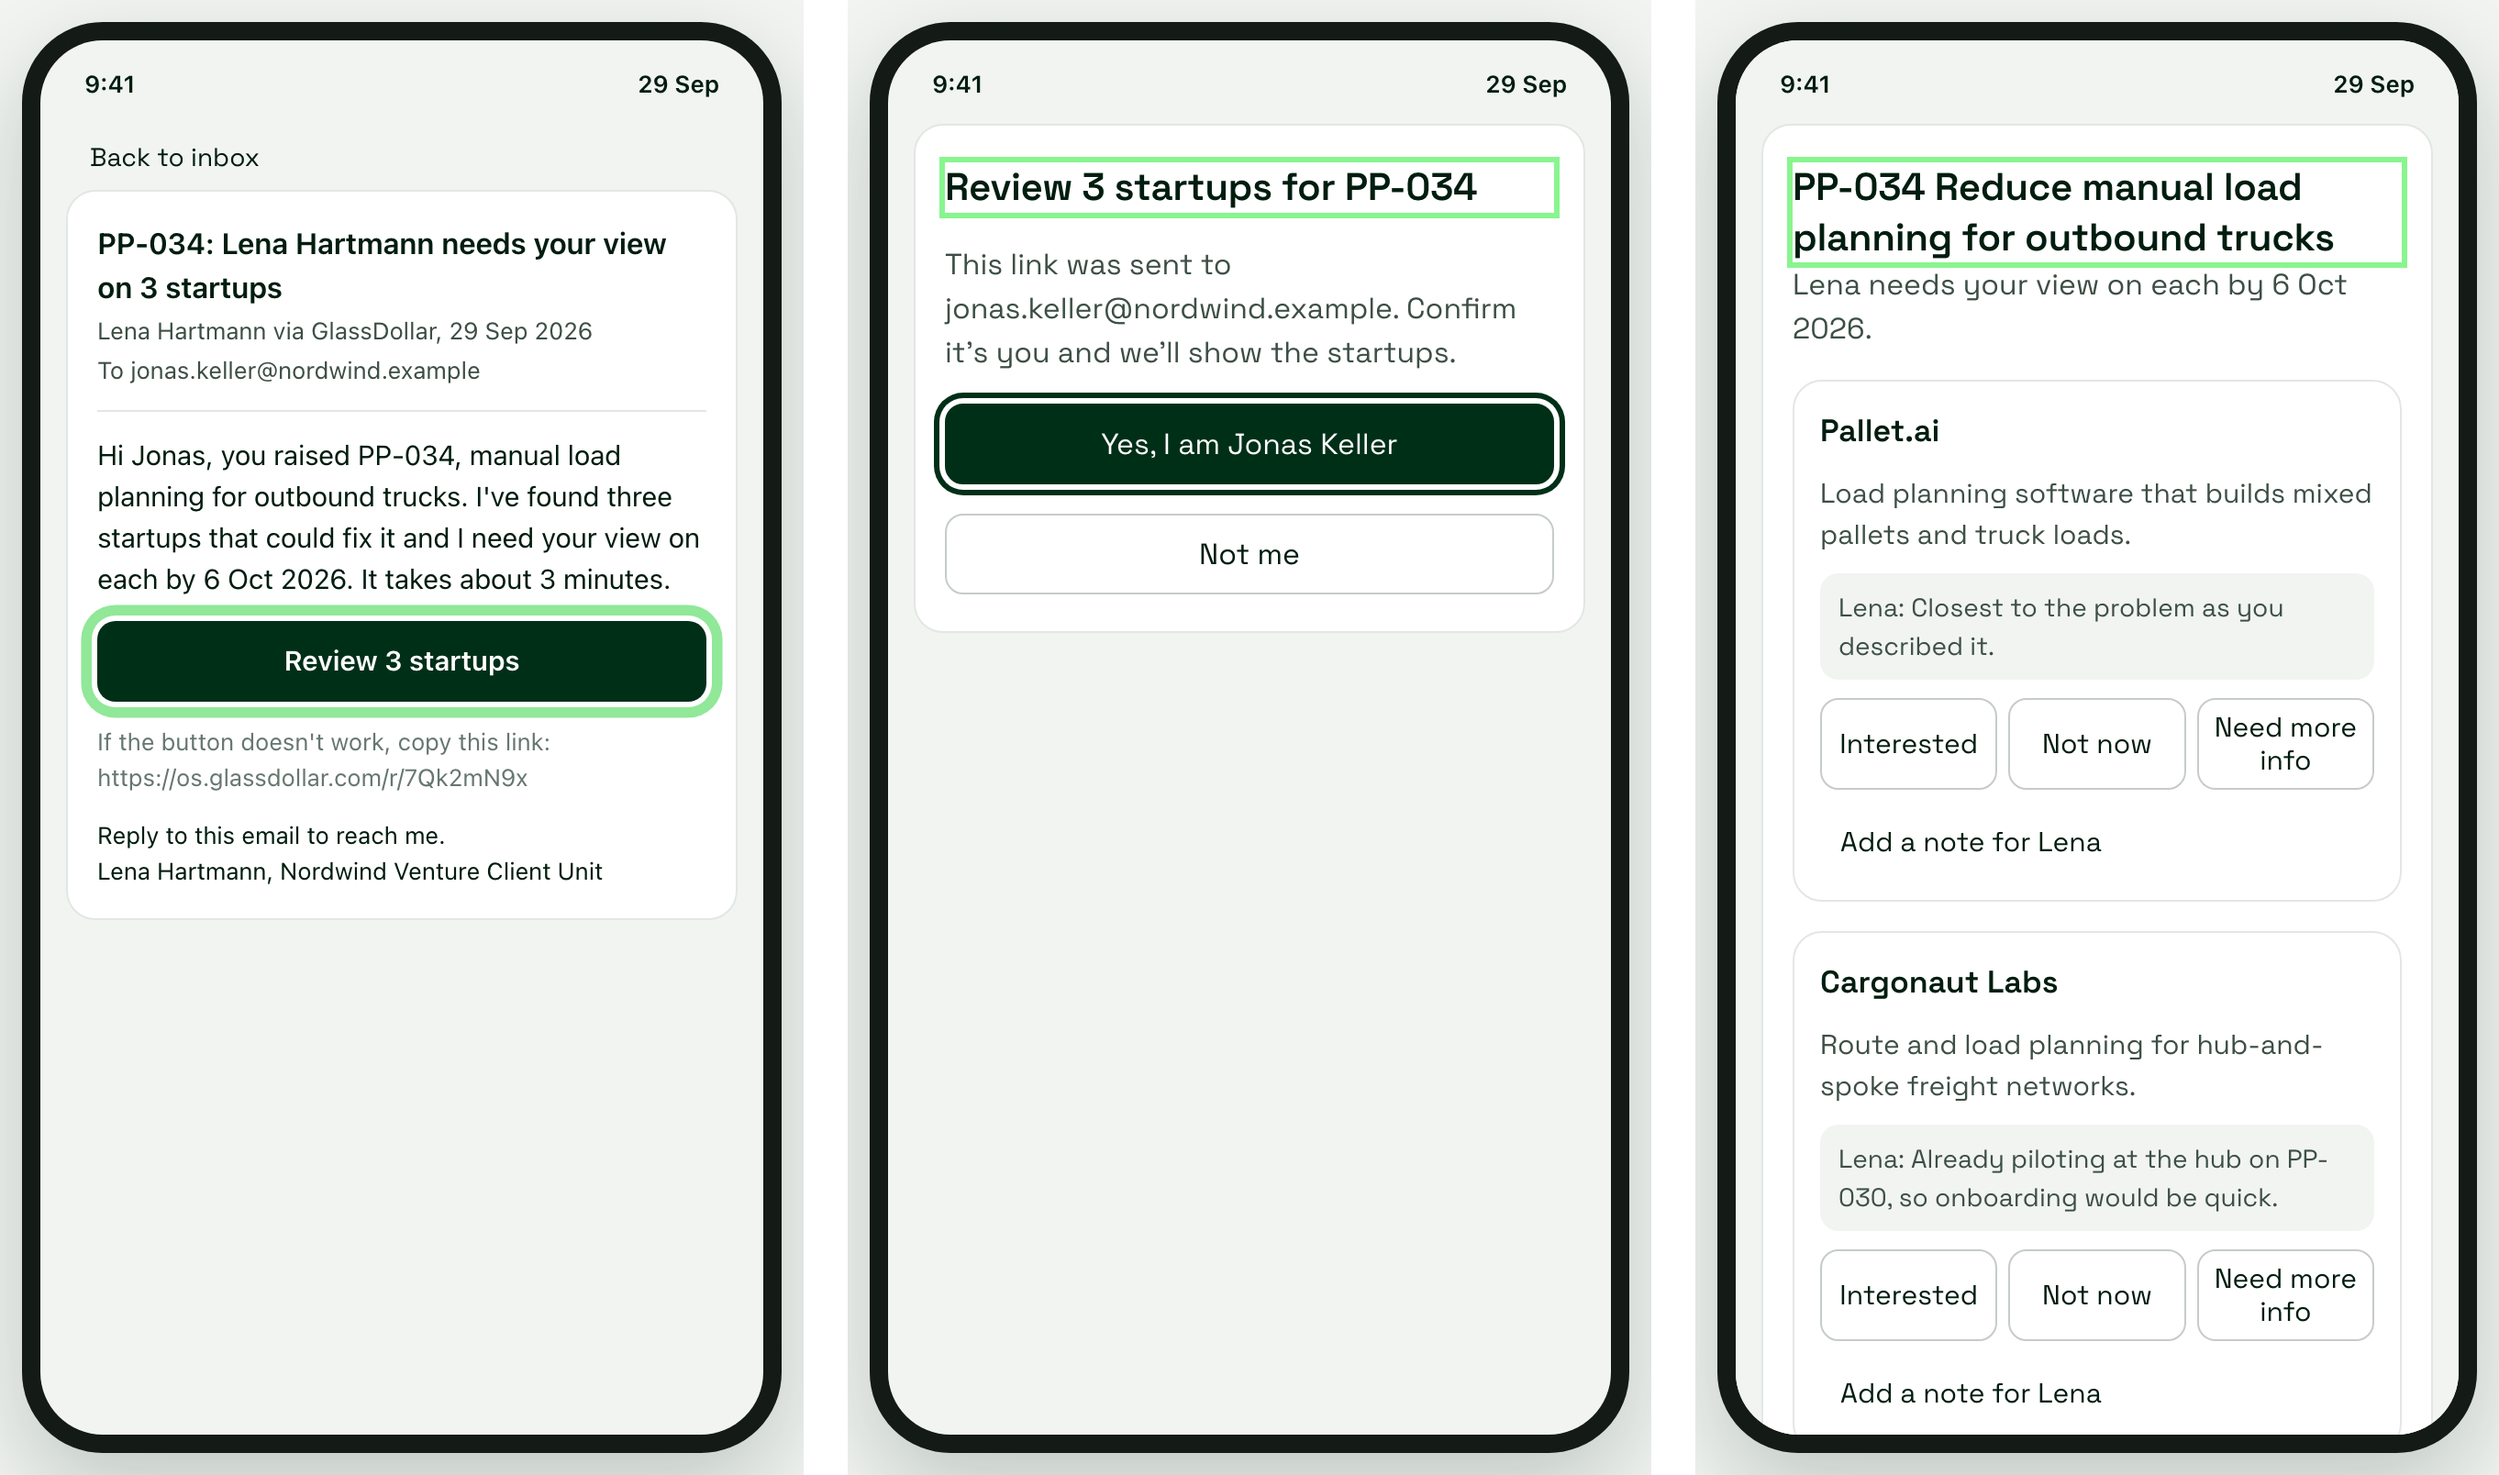
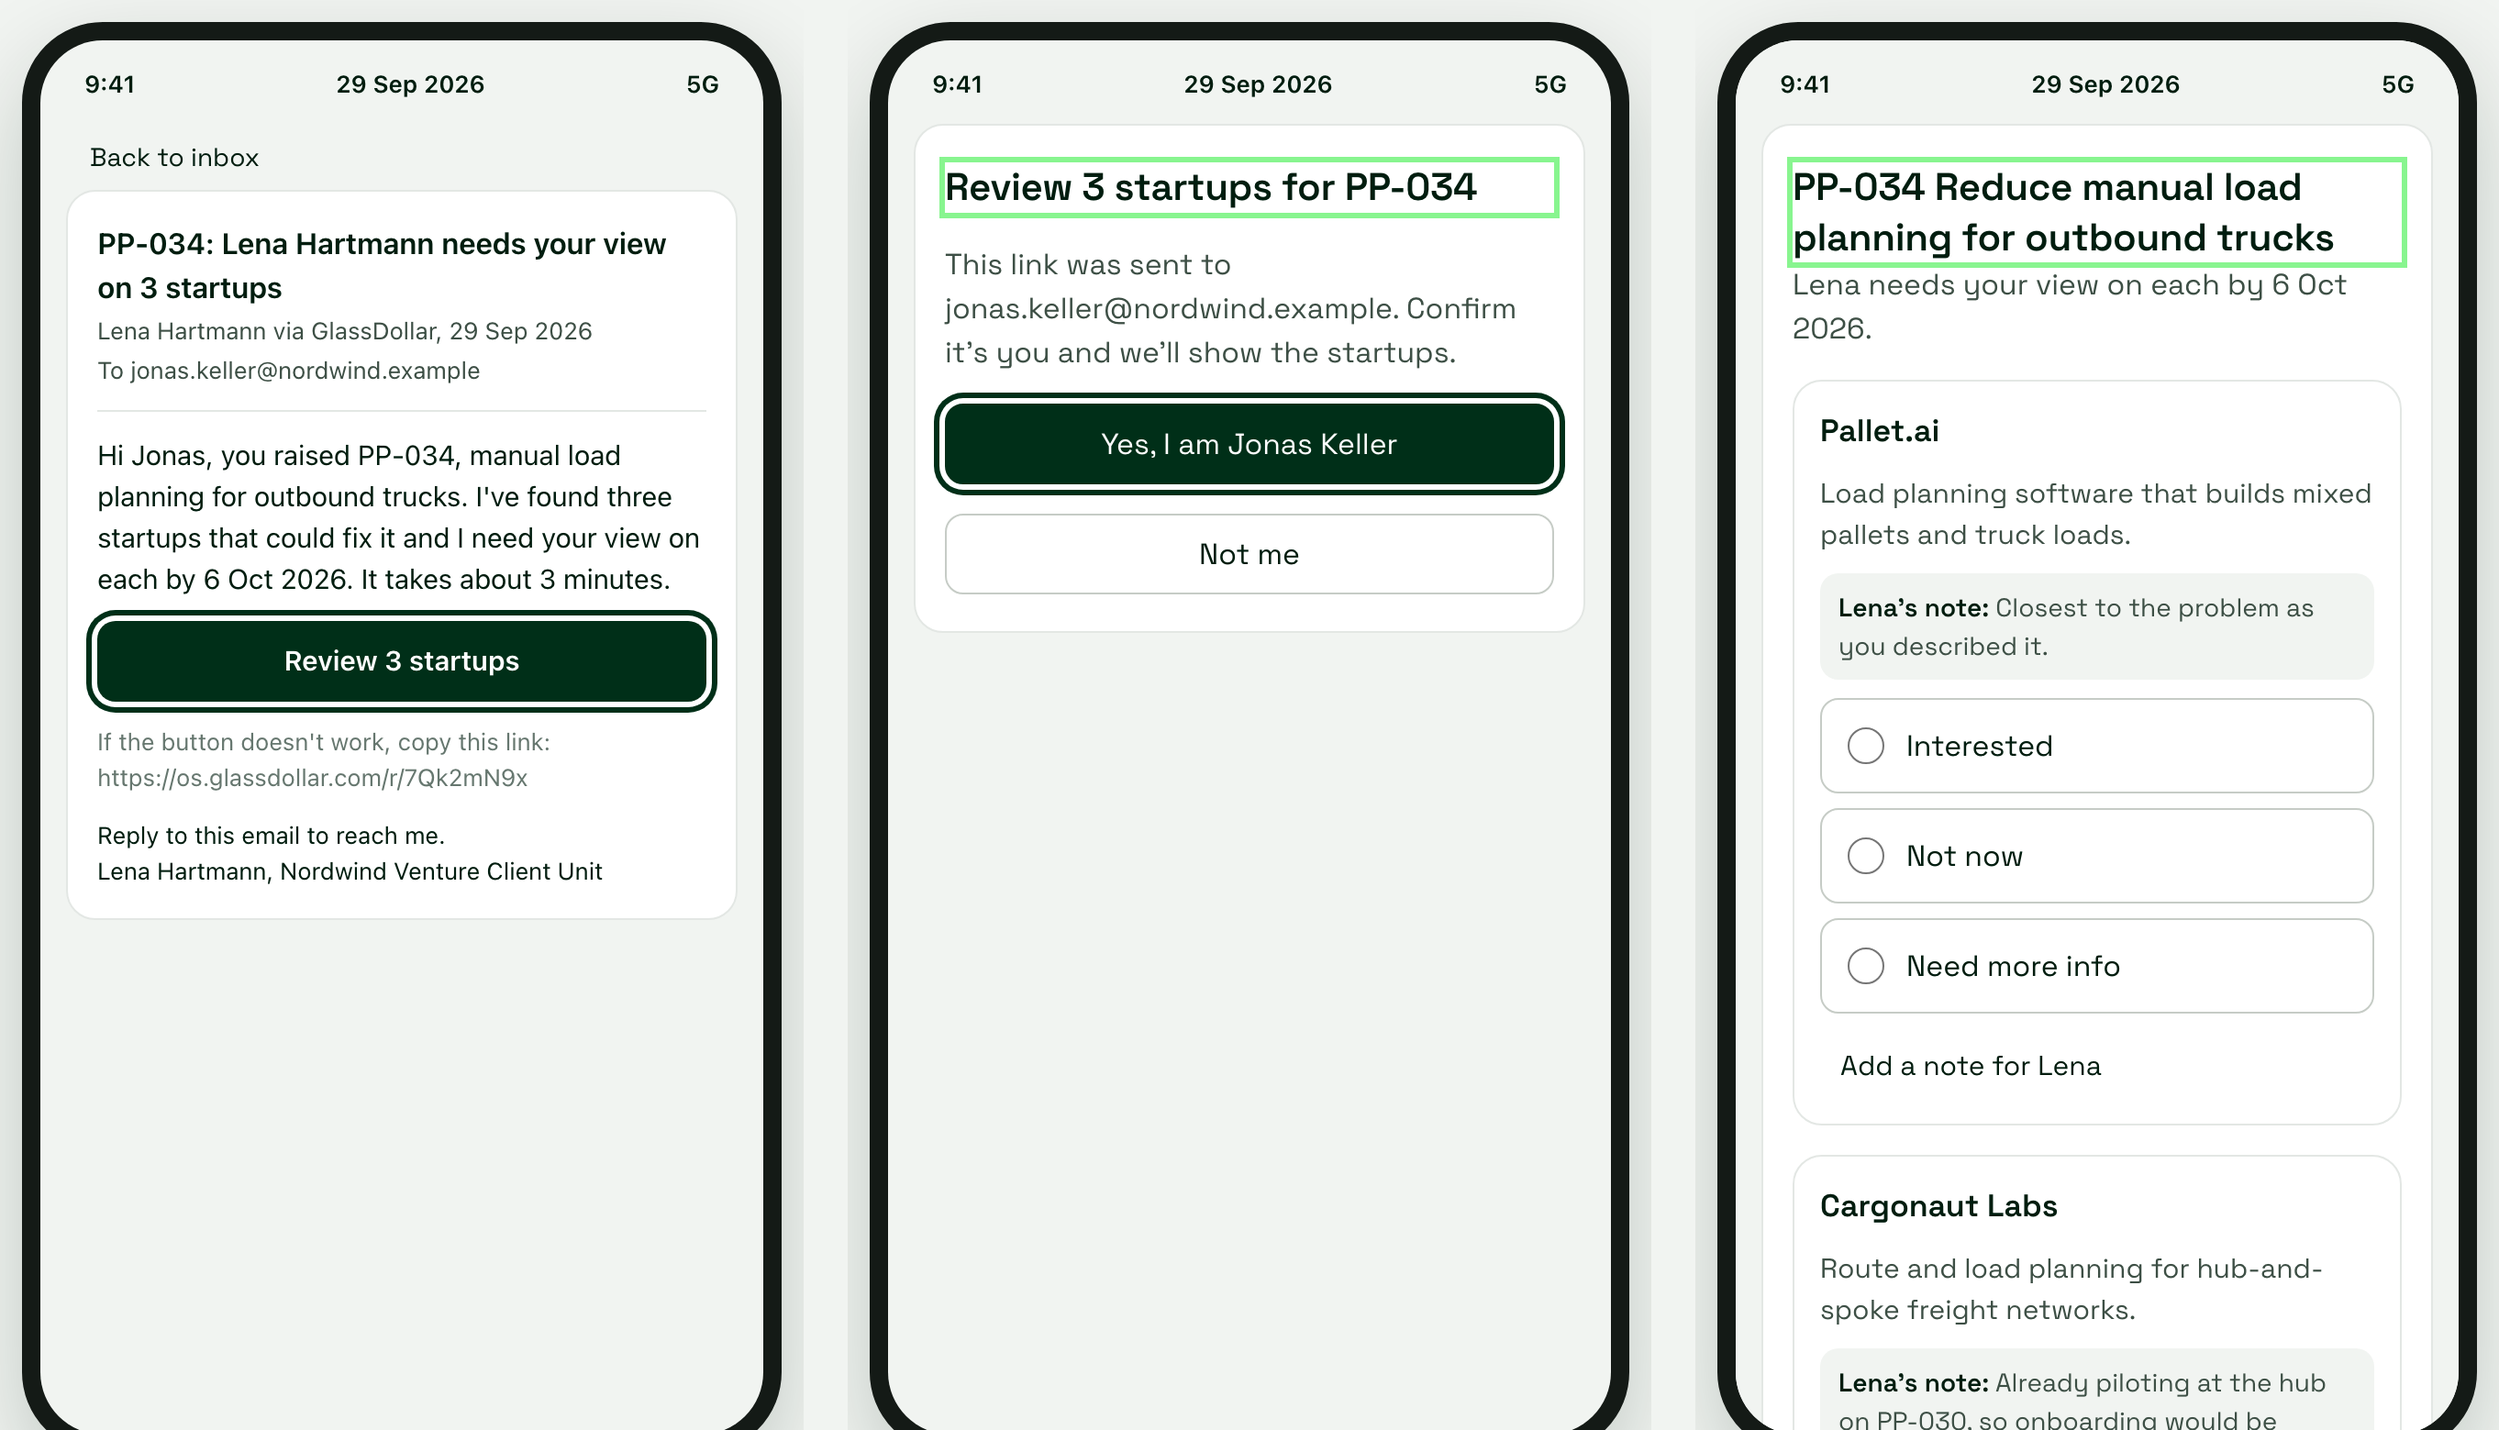
Design pass from the Lovable build: stacked choices on the phone, startup cards in a row, clock bar, Actions column (#21)

diff --git a/index.html b/index.html
@@ -252,6 +252,16 @@ label.field{display:grid;gap:6px}
 .peek .preview{margin-top:10px}
 .dlg .actions{justify-content:flex-end}
 
+/* Design pass, 12 Oct 2026: stacked choices on the phone, startup cards in a row, the clock in its own bar */
+.page .opts{grid-template-columns:1fr;gap:8px}
+.page .opts label{justify-content:flex-start;gap:12px;padding:10px 14px;text-align:left;min-height:52px;font-size:16px}
+.page .opts input{position:static;inset:auto;opacity:1;width:20px;height:20px;margin:0;flex:none;accent-color:var(--accent)}
+.stack.startups{grid-template-columns:repeat(3,minmax(0,1fr))}
+@container lena (max-width:700px){.stack.startups{grid-template-columns:1fr}}
+.lena-label{font-weight:600;color:var(--ink)}
+.controls{width:100%;margin-left:0;background:#fff;border:1px solid var(--note-line);border-radius:var(--radius-s);padding:8px 12px}
+#resetGroup{margin-left:auto}
+.list th:last-child{text-align:right}
 @media (prefers-reduced-motion:reduce){*{transition:none !important}}
 </style>
 </head>
@@ -273,9 +283,9 @@ label.field{display:grid;gap:6px}
         <button class="btn" id="roleJonas" aria-pressed="false">Jonas Keller</button>
       </div>
     </div>
+    <div class="group" id="todayGroup"><span>Today is <span class="day" id="today">29 Sep 2026, day 0</span></span></div>
     <div class="group" id="clockGroup" role="group" aria-label="Clock">
-      <span>Today <span class="day" id="today">29 Sep 2026, day 0</span></span>
-      <span class="days"><span>Jump ahead to</span>
+      <span class="days" role="group" aria-label="Jump ahead to a day">
       <button class="btn small" data-day="3">Day 3</button>
       <button class="btn small" data-day="7">Day 7</button>
       <button class="btn small" data-day="8">Day 8</button>
@@ -628,13 +638,13 @@ function renderShortlist(){
       const it = r.answer.items.find(i => i.id === s.id);
       ans = `<div class="answer-line"><span class="pill ${it.choice === 'interested' ? 'done' : ''}">${label(it.choice)}</span>${it.comment ? `<span>${esc(it.comment)}</span>` : ''}</div>`;
     }
-    return `<div class="card startup"><div class="s-head"><span class="avatar" style="background:${s.hue}" aria-hidden="true">${s.ini}</span><h3>${s.name}</h3></div><p>${s.desc}</p><p class="note">Lena: ${s.lena}</p>${ans}</div>`;
+    return `<div class="card startup"><div class="s-head"><span class="avatar" style="background:${s.hue}" aria-hidden="true">${s.ini}</span><h3>${s.name}</h3></div><p>${s.desc}</p><p class="note"><span class="lena-label">Lena's note:</span> ${s.lena}</p>${ans}</div>`;
   }).join('');
   const noneFit = r && r.answer && r.answer.noneFit ? `<div class="card"><b>None of these fit.</b> ${esc(r.answer.noneFitText)}</div>` : '';
   const behalf = r && r.answer && r.answer.note ? `<p class="muted small">${esc(r.answer.note)}</p>` : '';
   const events = r ? `<details class="log"><summary>Events for this request (${r.events.length})</summary><table><thead><tr><th>Date</th><th>Event</th></tr></thead><tbody>${r.events.map(e => `<tr><td class="num">${fmt(e.day)}</td><td>${esc(e.text)}</td></tr>`).join('')}</tbody></table></details>` : '';
   return `<div class="head"><div><h1>PP-034 Reduce manual load planning for outbound trucks</h1><p class="meta small">Raised by Jonas Keller, logistics process lead at the Hamburg hub. Three startups on the shortlist.</p></div><div class="actions">${status}${action}</div></div>
-    <div class="stack">${noneFit}${cards}</div>${behalf}${events}`;
+    <div class="stack">${noneFit}<div class="stack startups">${cards}</div></div>${behalf}${events}`;
 }
 
 function renderWaiting(){
@@ -658,8 +668,8 @@ function renderWaiting(){
     return `<button type="button" class="btn small menu-btn" popovertarget="menu-${k}-${x.id}">Actions</button><div class="menu-items" id="menu-${k}-${x.id}" popover>${items.join('')}</div>`;
   };
   const reqCell = x => x.fixed ? `<b>${x.id}</b>` : `<button type="button" class="linkish" data-act="open">${x.id}</button>`;
-  const table = rows.length ? `<div class="tablecard"><table class="list"><thead><tr><th>Request</th><th>Owner</th><th>Age</th><th>Due</th><th>State</th><th>Reminders</th><th>Last owner action</th><th><span class="sr-only">Actions</span></th></tr></thead><tbody>
-    ${rows.map(x => `<tr><td>${reqCell(x)}<br><span class="small muted">${x.title}</span></td><td>${esc(x.owner)}</td><td class="num">${x.age} days</td><td class="num">${x.due}</td><td>${pill(x.state)}</td><td class="num">${x.reminders}</td><td>${esc(x.last)}</td><td>${actions(x, 't')}</td></tr>`).join('')}</tbody></table></div>
+  const table = rows.length ? `<div class="tablecard"><table class="list"><thead><tr><th>Request</th><th>Owner</th><th>Age</th><th>Due</th><th>State</th><th>Reminders</th><th>Last owner action</th><th>Actions</th></tr></thead><tbody>
+    ${rows.map(x => `<tr><td>${reqCell(x)}<br><span class="small muted">${x.title}</span></td><td>${esc(x.owner)}</td><td class="num">${x.age} days</td><td class="num">${x.due}</td><td>${pill(x.state)}</td><td class="num">${x.reminders}</td><td>${esc(x.last)}</td><td>${actions(x, 't') || '-'}</td></tr>`).join('')}</tbody></table></div>
     <div class="rows">${rows.map(x => `<div class="card row-card"><div class="row-head"><b>${reqCell(x)} ${x.title}</b>${pill(x.state)}</div>
       <div class="kv"><span>Owner</span><b>${esc(x.owner)}</b><span>Age</span><b>${x.age} days</b><span>Due</span><b>${x.due}</b><span>Reminders</span><b>${x.reminders}</b><span>Last action</span><b>${esc(x.last)}</b></div><div class="actions">${actions(x, 'c')}</div></div>`).join('')}</div>`
     : `<div class="card empty">${view === 'open' ? 'Nothing is waiting on anyone.' : view === 'answered' ? 'No answers yet.' : 'Nothing has been cancelled.'}</div>`;
@@ -706,19 +716,19 @@ function renderJonas(){
   } else if (S.screen === 'done'){
     body = renderDone(false);
   }
-  return `<div class="screen"><div class="statusbar" aria-hidden="true"><span>9:41</span><span>${short(S.day)}</span></div>${body}</div>`;
+  return `<div class="screen"><div class="statusbar" aria-hidden="true"><span>9:41</span><span>${fmt(S.day)}</span><span>5G</span></div>${body}</div>`;
 }
 
 function renderForm(){
   const r = S.req;
-  const cards = STARTUPS.map(s => `<fieldset class="choice" data-startup="${s.id}" id="f_${s.id}"><legend>${s.name}</legend><p class="desc">${s.desc}</p><p class="lena">Lena: ${s.lena}</p>
+  const cards = STARTUPS.map(s => `<fieldset class="choice" data-startup="${s.id}" id="f_${s.id}"><legend>${s.name}</legend><p class="desc">${s.desc}</p><p class="lena"><span class="lena-label">Lena's note:</span> ${s.lena}</p>
     <div class="opts">${CHOICES.map(([v, t]) => `<label><input type="radio" name="c_${s.id}" value="${v}"><span>${t}</span></label>`).join('')}</div>
     <p class="err" id="e_${s.id}" hidden>Pick one before you send.</p>
     <button class="btn quiet small" type="button" data-note="${s.id}">Add a note for Lena</button>
     <label class="field small" id="l_${s.id}" hidden>Note for Lena<textarea id="n_${s.id}" name="n_${s.id}" autocomplete="off" maxlength="1000" placeholder="Anything Lena should know…"></textarea></label></fieldset>`).join('');
   return `<form class="page" id="answerForm" novalidate>
     <div><h1>PP-034 Reduce manual load planning for outbound trucks</h1><p class="lead">Lena needs your view on each by ${fmt(r.sentDay + DUE_DAY)}.</p></div>
-    ${r.note ? `<p class="lena-note">Lena: ${esc(r.note)}</p>` : ''}
+    ${r.note ? `<p class="lena-note"><span class="lena-label">Lena's note:</span> ${esc(r.note)}</p>` : ''}
     ${cards}
     <label class="check"><input type="checkbox" id="noneFit" name="noneFit"><span>None of these fit</span></label>
     <label class="field" id="noneFitLabel" hidden>Tell Lena why<textarea id="noneFitText" name="noneFitText" autocomplete="off" maxlength="1000" placeholder="What's missing, or what would fit better…"></textarea></label>
